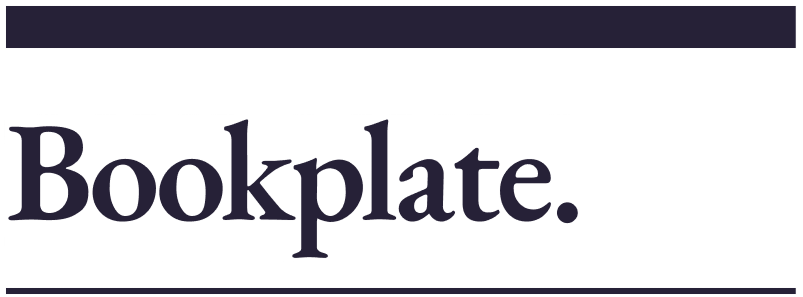
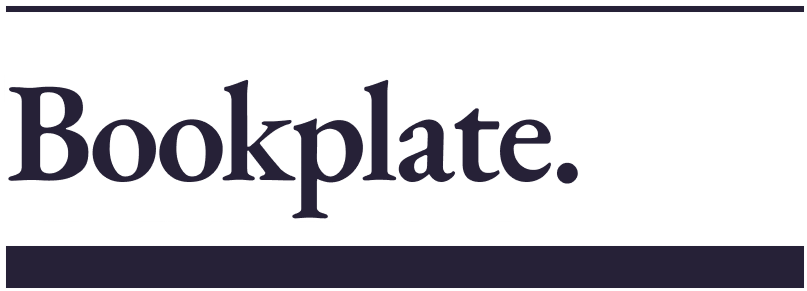
Upate theme and brand image

diff --git a/.storybook/BookplateTheme.js b/.storybook/BookplateTheme.js
@@ -1,14 +1,34 @@
 import { create } from 'storybook/theming';
 
 export default create({
-  base: 'light',
-
-  // Typography
-  fontBase: '"EB Garamond", serif',
+  base: 'dark',
+  colorPrimary: 'red',
+  colorSecondary:'lime',
+  appBg: 'red',
+  appContentBg: 'red',
+  appPreviewBg: 'red',
+  appBorderColor: 'purple',
+  appBorderRadius: 99,
+  fontBase: 'Helvetica',
   fontCode: '"JetBrains Mono", monospace',
-
+  textColor: 'orange',
+  textInverseColor: 'white',
+  textMutedColor: 'grey',
+  barTextColor: 'green',
+  barHoverColor: 'blue',
+  barSelectedColor: 'yellow',
+  barBg: 'black',
+  buttonBg: 'green',
+  buttonBorder: 'grey',
+  booleanBg: 'black',
+  booleanSelectedBg: 'white',
+  inputBg: 'black',
+  inputBorder: 'grey',
+  inputTextColor: 'white',
+  inputBorderRadius: 1,
   brandTitle: 'Bookplate',
   brandUrl: 'https://68b627f48974895b1004bad0-wosxwdfvfy.chromatic.com',
   brandImage: '/stories/assets/bookplate-brand-image.png',
   brandTarget: '_self',
+  gridCellSize: 16,
 });
